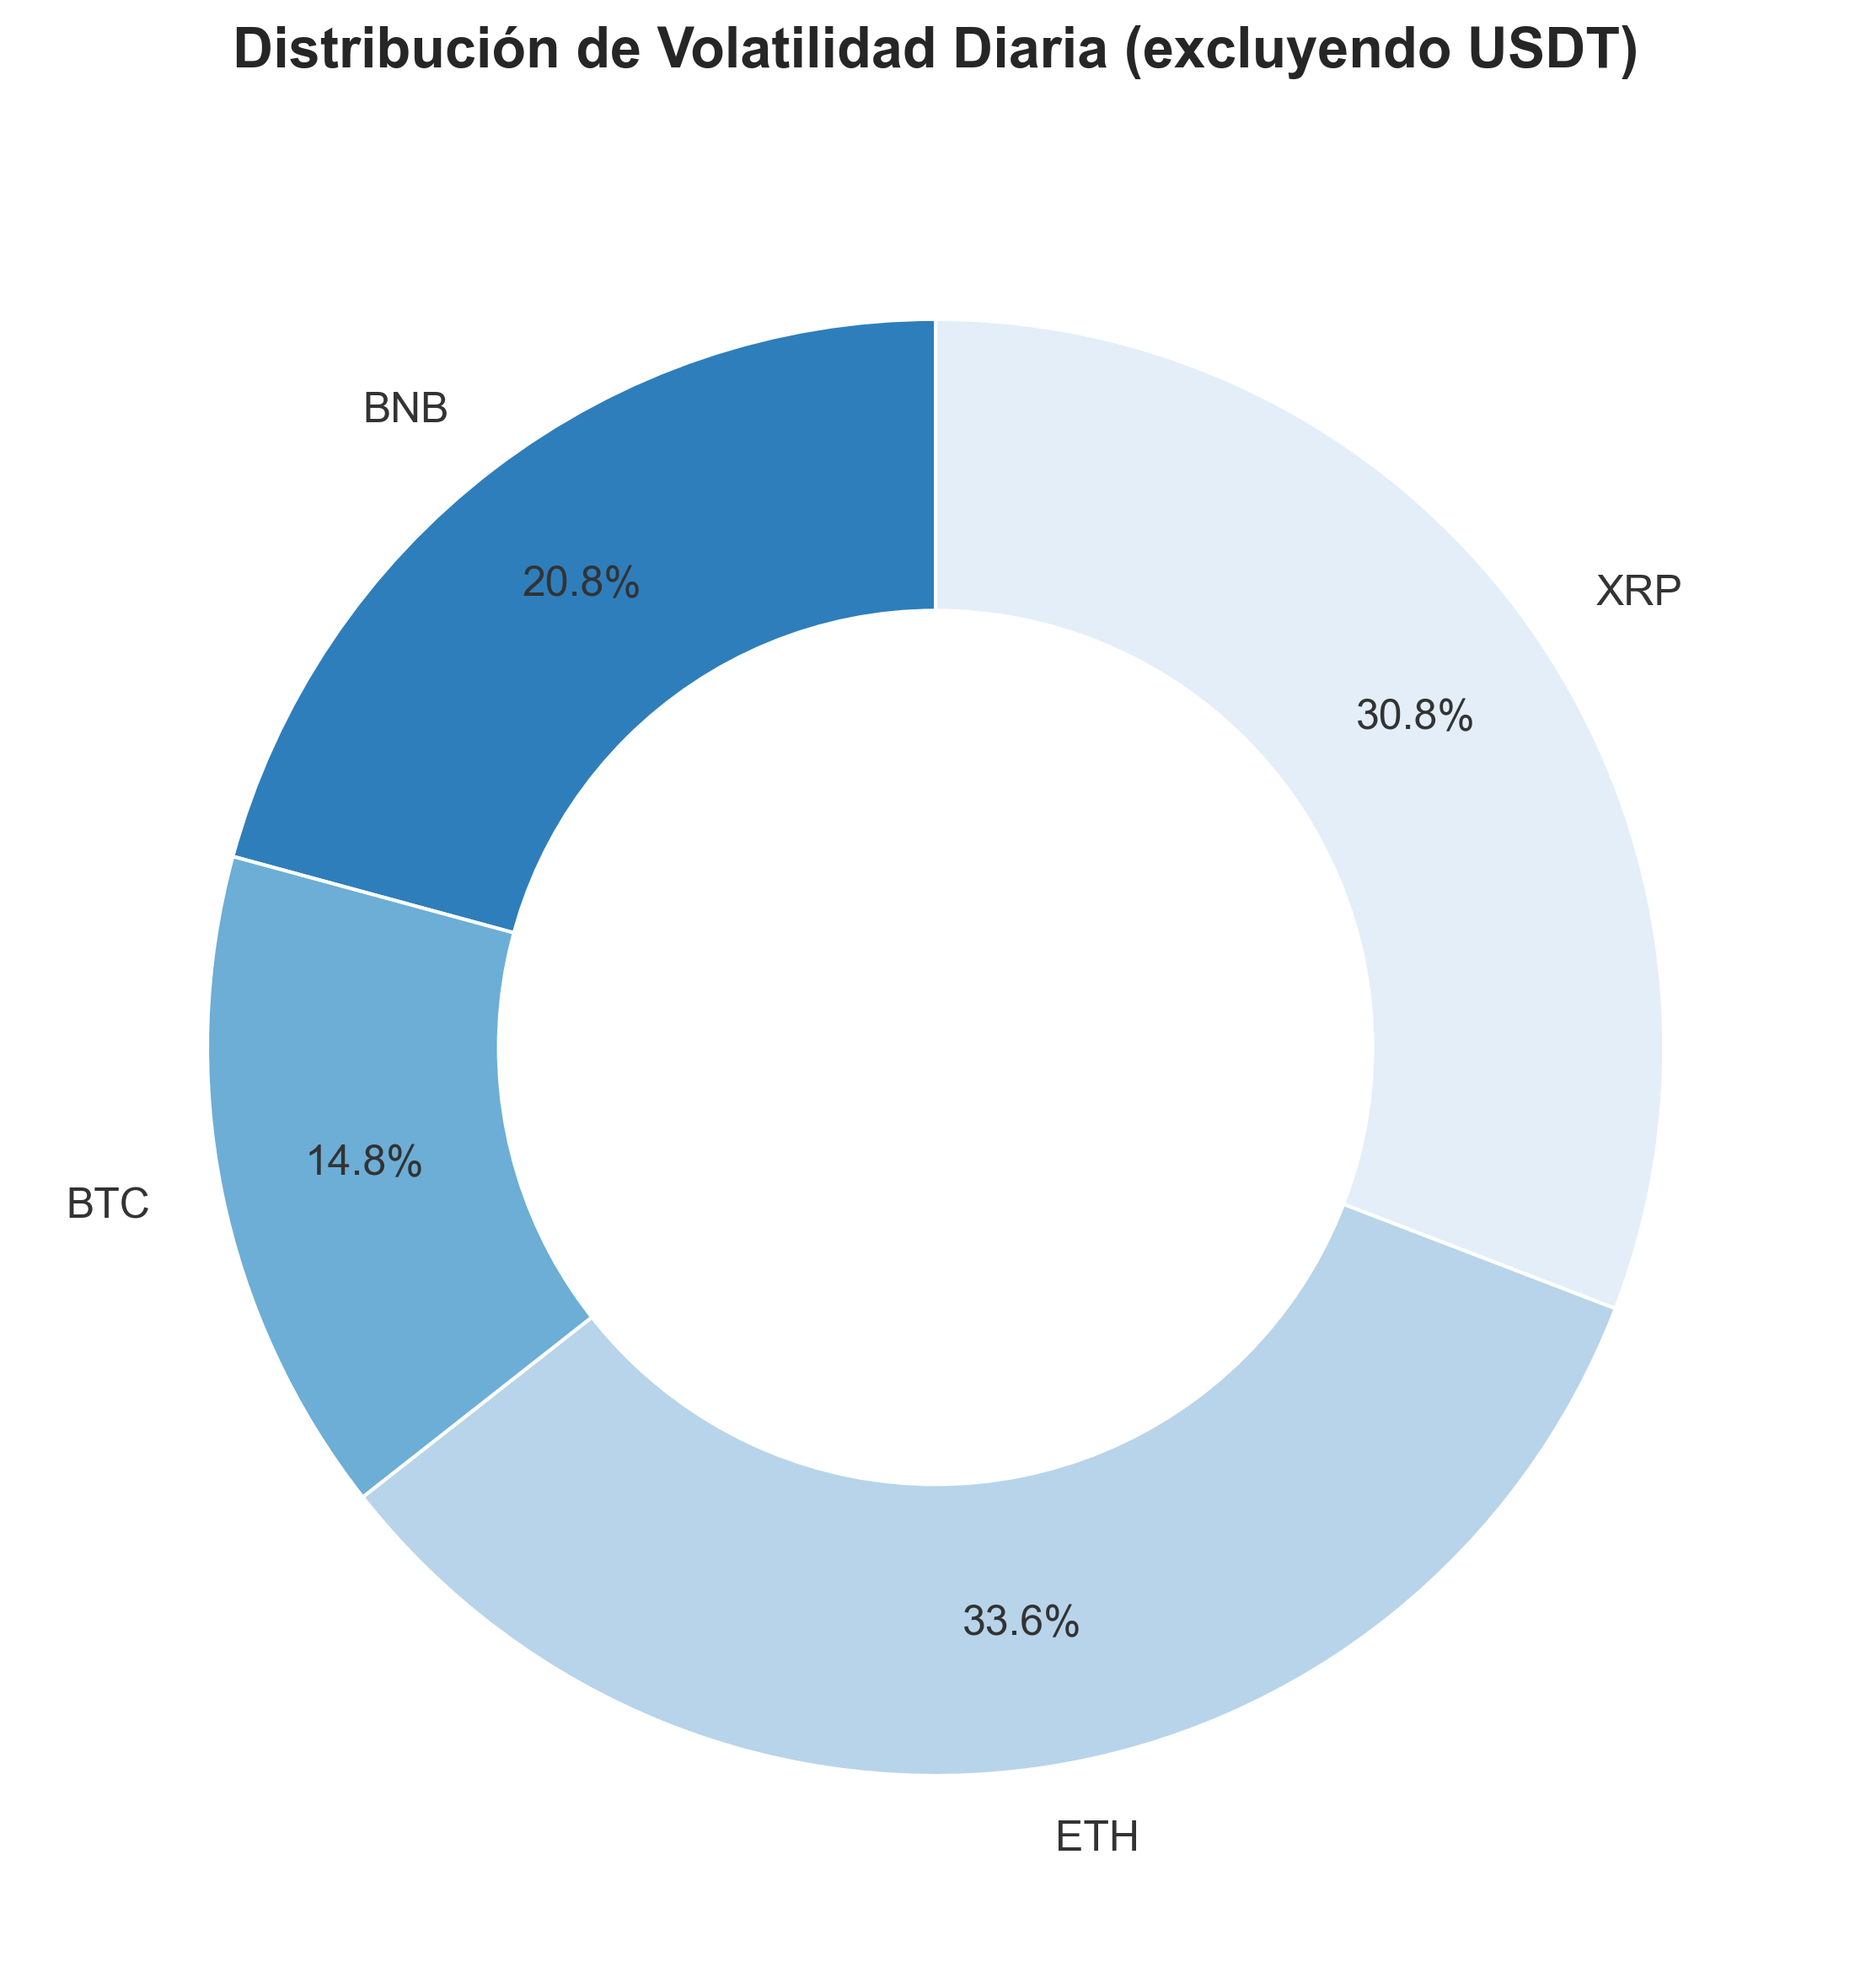
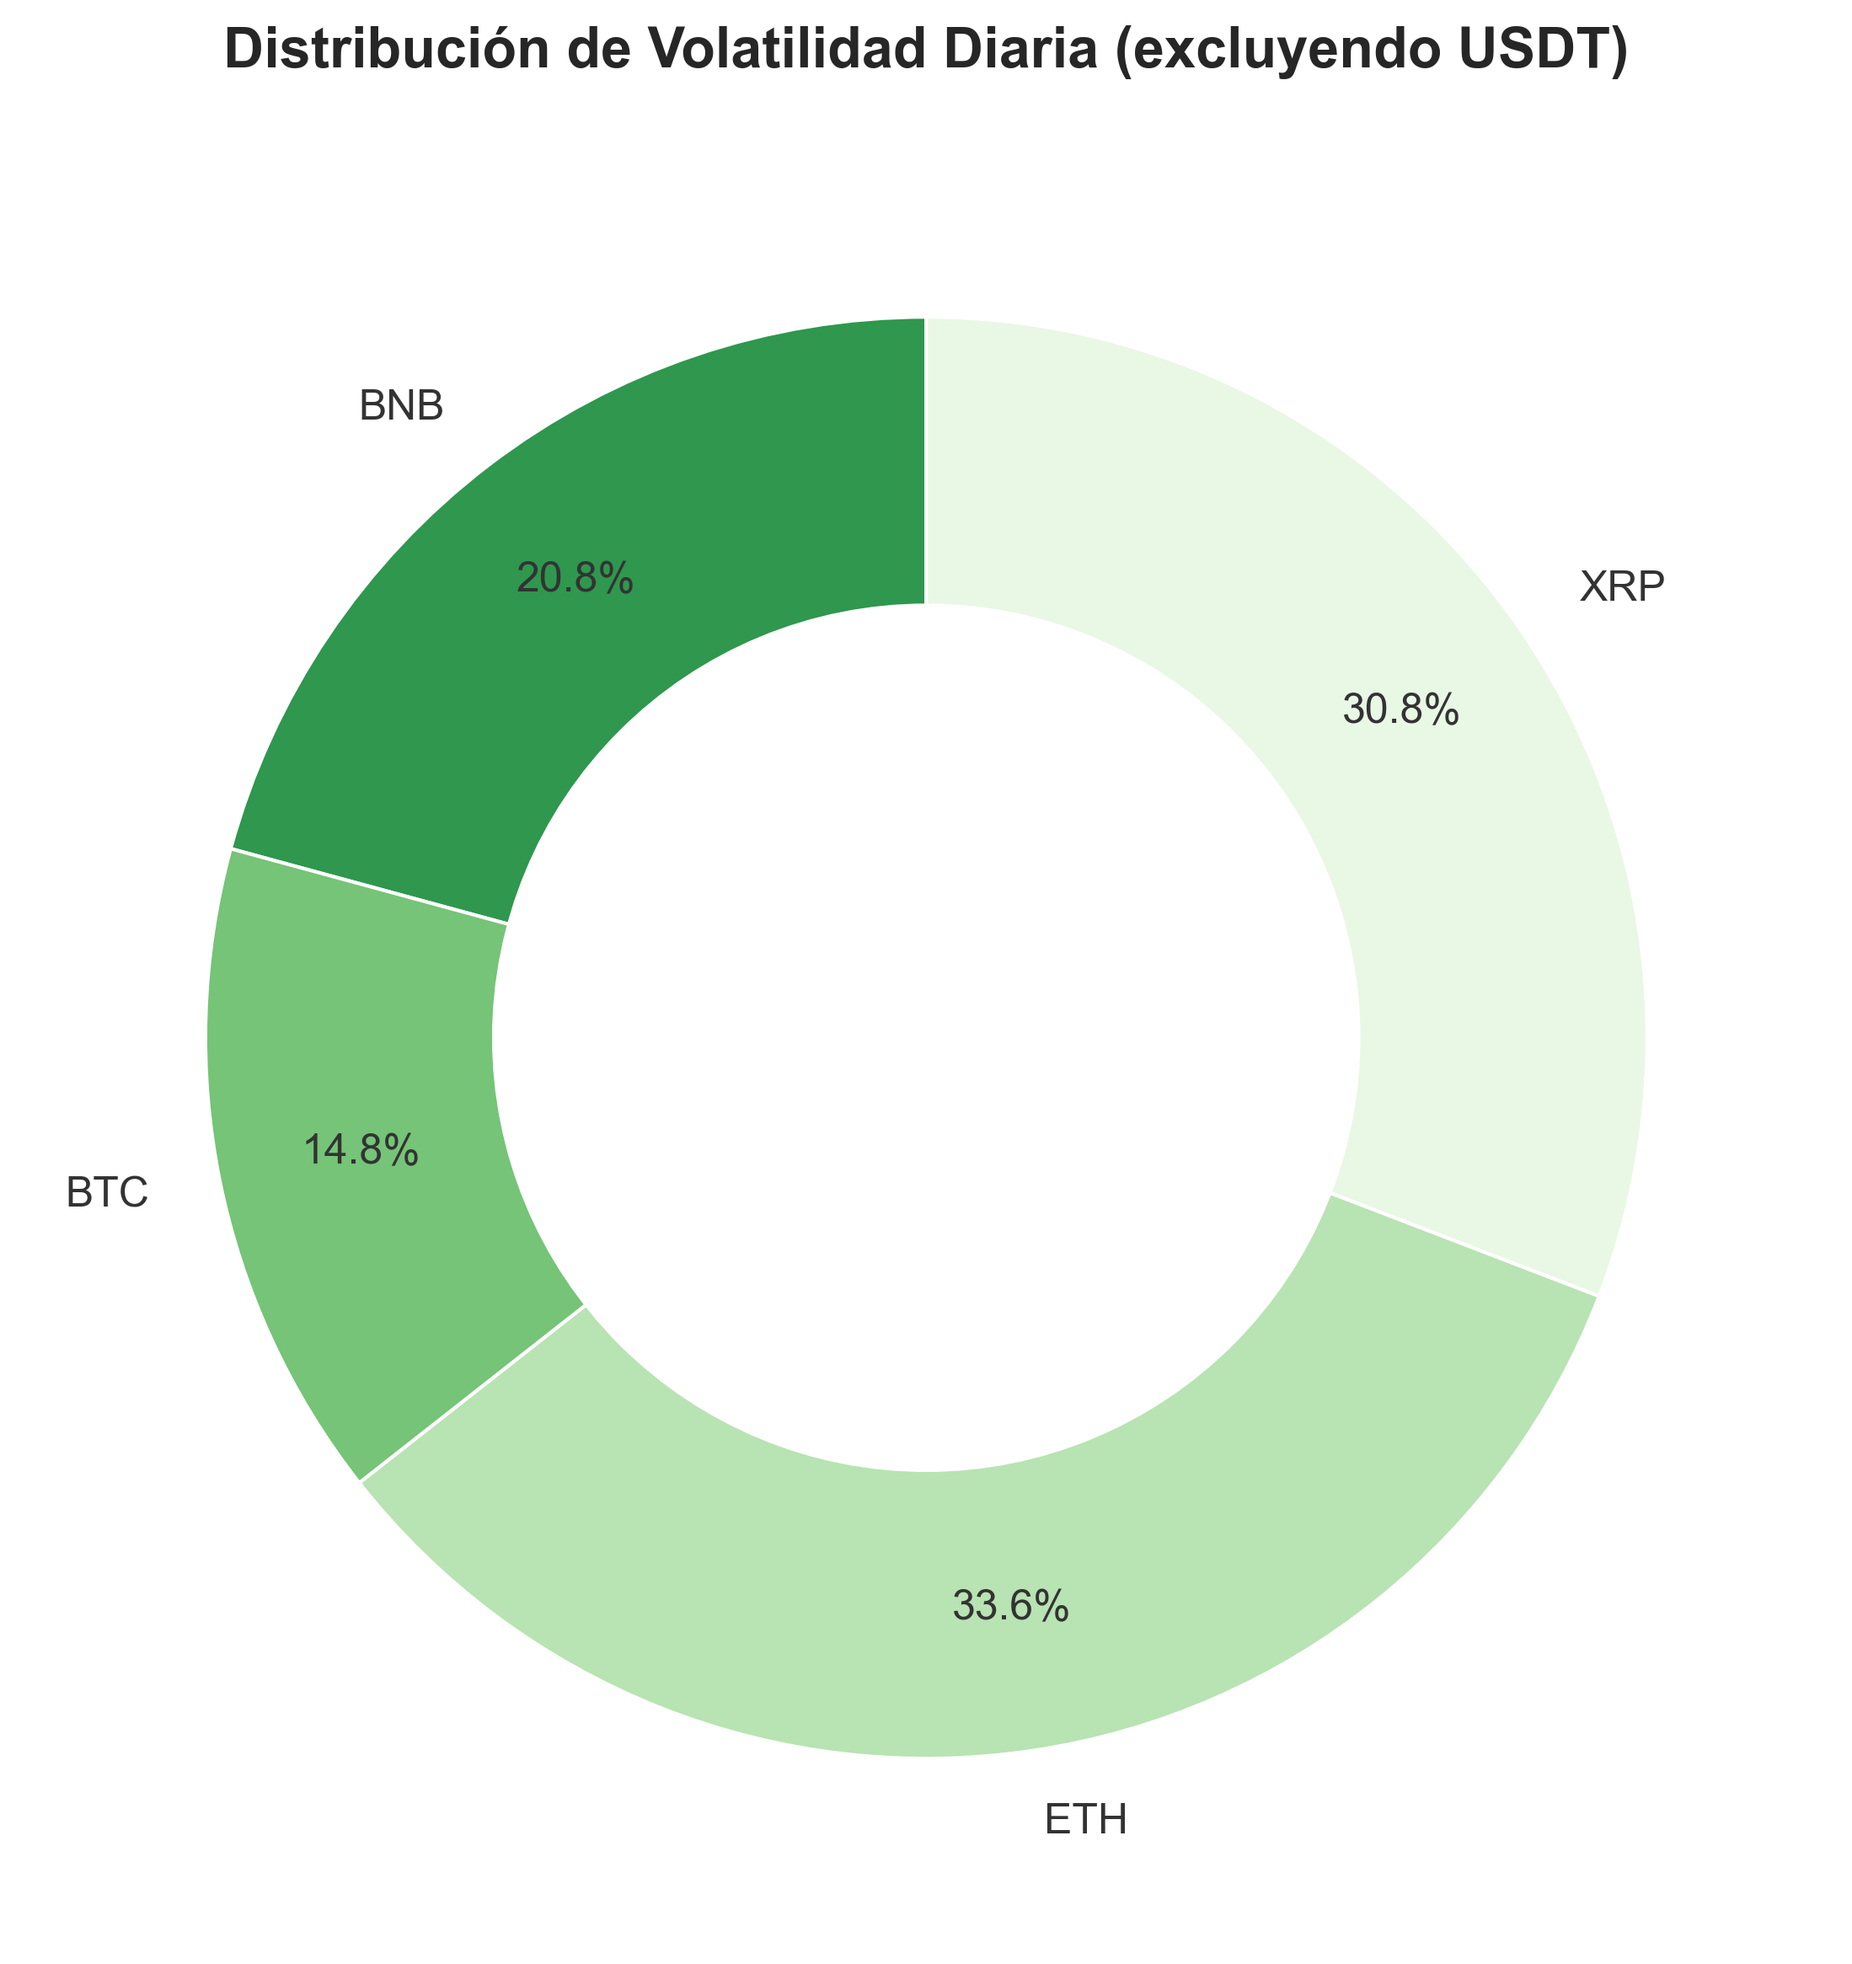
14.05.2026.

diff --git a/CODIGO/NOTEBOOKS/EDA_main.py b/CODIGO/NOTEBOOKS/EDA_main.py
@@ -256,7 +256,7 @@ dfi.export(volatility,"daily_volatility.png",table_conversion='chrome')
 df_vol_no_usdt = volatility[volatility["symbol"] != "usdt"]
 
 # Colores profesionales (azules suaves)
-colors = plt.cm.Blues_r(np.linspace(0.3, 0.9, len(df_vol_no_usdt)))
+colors = plt.cm.Greens_r(np.linspace(0.3, 0.9, len(df_vol_no_usdt)))
 
 # Crear figura
 fig, ax = plt.subplots(figsize=(8, 8))
@@ -431,7 +431,7 @@ sns.heatmap(
     summary.set_index("symbol"),
     annot=True,
     fmt=".4f",
-    cmap="Blues",
+    cmap="Greens",
     linewidths=0.5,
     cbar=False
 )
@@ -447,10 +447,10 @@ plt.show()
 pivot_returns = ohlc_2025.pivot_table(index="date", columns="symbol", values="daily_return")
 
 plt.figure(figsize=(8,6))
-sns.heatmap(pivot_returns.corr(), annot=True, cmap="coolwarm")
+sns.heatmap(pivot_returns.corr(), annot=True, cmap="Greens", vmin=-1,vmax=1)
 plt.title("Correlación entre Retornos Diarios (2025)")
 plt.tight_layout()
-plt.savefig("Correlacion_activos_HEATMAP.png", dpi=300, bbox_inches="tight")
+plt.savefig("Correlacion_activos_HEATMAP_verde.png", dpi=300, bbox_inches="tight")
 plt.show()
 
 # TABLA SUMARY
